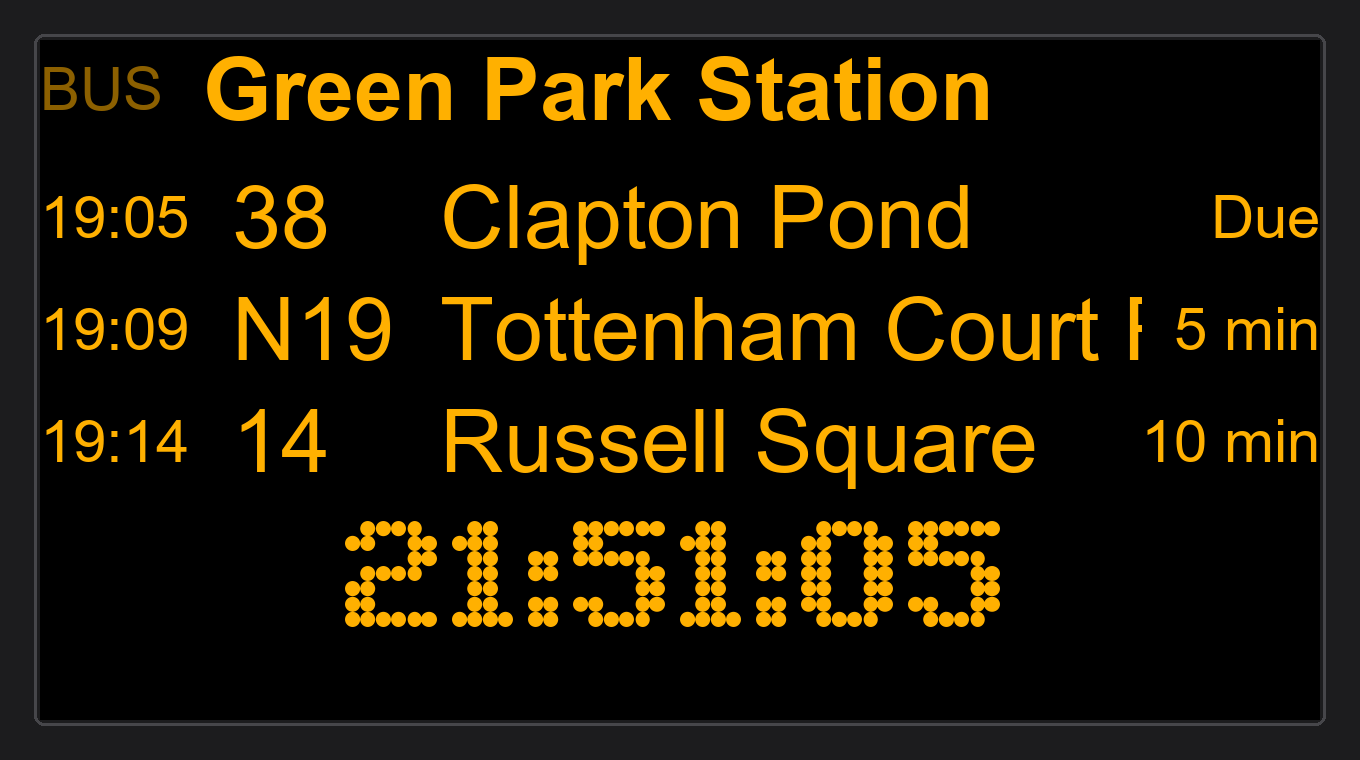
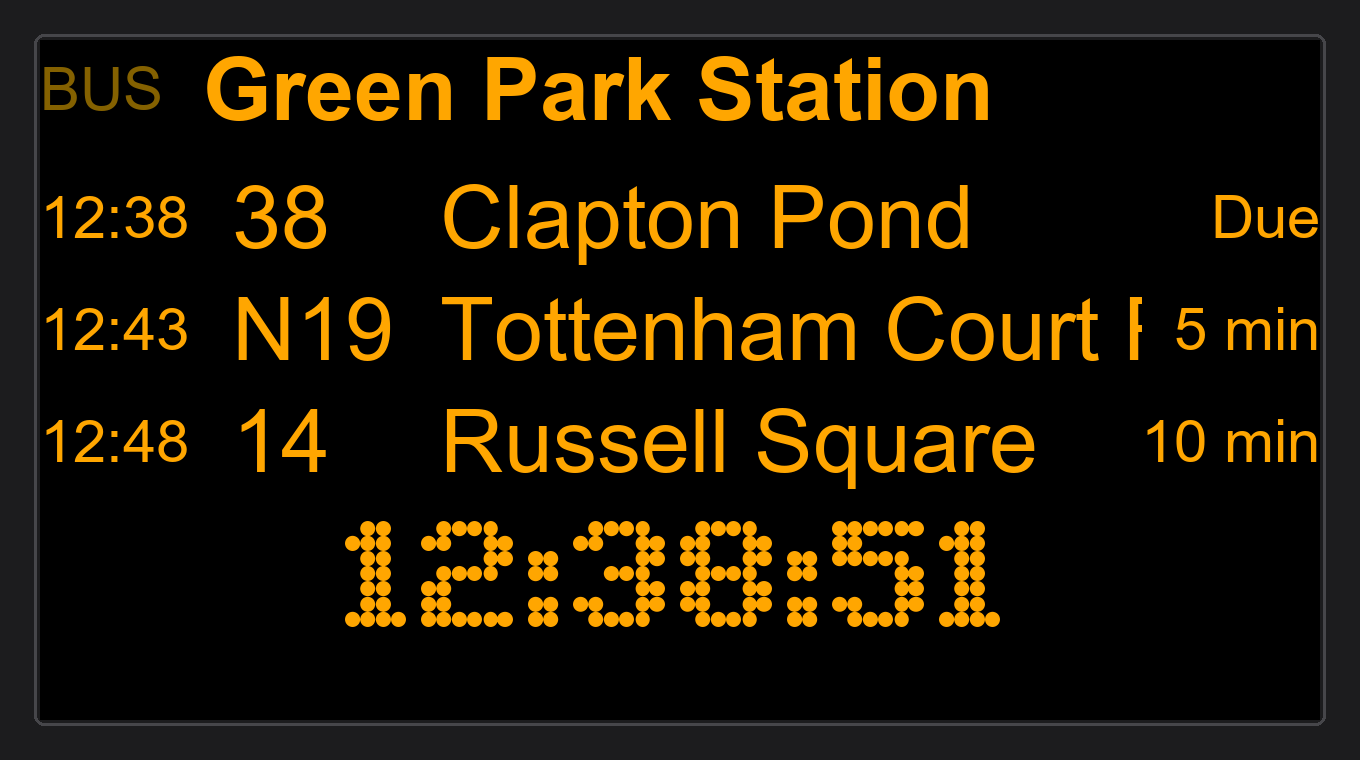
docs: mockups for all three screens
The renderer predated the river screen, so there was no boat mockup and the
train/bus pair were named inconsistently. There is now a matching trio --
mockup-train, mockup-bus, mockup-river -- alongside the two edge cases worth
eyeballing after a layout change.

Bus and river now share one function here because they share one on the
device: drawArrivalsBoard() draws both, differing only in tag and empty-state
text. The mockup mirroring that keeps it honest.

Two accuracy fixes for a tool whose whole purpose is being pixel-accurate:

Colours were eyeballed approximations -- AMBER as (255,176,0) against the
panel's real (255,166,0), and RED as (255,40,40) against a pure (255,0,0).
They are now derived from display.cpp's RGB565 constants, so the mockups
show what the screen actually produces. The palette is a parameter too, so
any of the new themes can be rendered.

Row times were hardcoded while the clock read the real time, so every mockup
showed an impossible board: departures at 19:21 under a clock reading 12:38.
Times are now derived from minutes-from-now, and the countdown wording comes
from the same rule the firmware uses.

Also makes the script runnable from anywhere rather than only from docs/.

diff --git a/docs/render_mockup.py b/docs/render_mockup.py
@@ -1,41 +1,72 @@
-"""Render pixel-accurate mockups of the T-Display-S3 board, trains and buses.
+"""Render pixel-accurate mockups of the board: trains, London buses, river boats.
 
-Mirrors src/display.cpp (320x170 landscape, amber-on-black), including its shared
-layout: FreeSans (approximated by Arial) for the header and rows, dot-matrix for
-the clock, and the same row geometry constants. Documentation aid only, so layout
+Mirrors src/display.cpp (320x170 landscape) including its shared layout:
+FreeSans (approximated by Arial) for the header and rows, dot-matrix for the
+clock, and the same geometry constants. Documentation aid only, so layout
 changes can be checked without flashing a board. Scaled 4x for legibility.
 
-Run it with no arguments to regenerate all four:
+Colours are derived from the firmware's own RGB565 constants rather than
+eyeballed, and any theme can be rendered by passing a different palette — the
+board's colours are runtime settings now, so the mockups can show them.
 
-  mockup-mot.png          train board, live Motspur Park data
-  mockup-scroll-demo.png  train board, delayed + cancelled, long name clipped
-  mockup-bus.png          London bus arrivals screen
-  mockup-bus-busy.png     bus screen with a destination too long for its column
+Bus and river share one renderer here because they share one on the device:
+drawArrivalsBoard() draws both, differing only in tag and empty-state text.
+
+Run with no arguments to regenerate everything:
+
+  mockup-train.png        train board
+  mockup-bus.png          London bus arrivals
+  mockup-river.png        river boat sailings
+  mockup-scroll-demo.png  train board, delayed + cancelled
+  mockup-bus-busy.png     bus screen, destination too long for its column
 """
 
-from datetime import datetime
+import os
+from datetime import datetime, timedelta
 from PIL import Image, ImageFont, ImageDraw
+
+HERE = os.path.dirname(os.path.abspath(__file__))
+FONT_DIR = os.path.join(HERE, "..", "fonts")
+WIN = "C:/Windows/Fonts"
 
 W, H = 320, 170
 SCALE = 4
-DM_DIR = "../fonts"
-WIN = "C:/Windows/Fonts"
-
-AMBER = (255, 176, 0)
-RED = (255, 40, 40)
-BLACK = (0, 0, 0)
 
 HIDE_ONTIME = False  # matches HIDE_ONTIME_STATUS in app_config.h
 
-# Train rows: FreeSans-like (Arial). Clock: dot-matrix. Sizes match display.cpp.
+# Geometry, straight from display.cpp.
+ROW_Y0, ROW_STEP, CLOCK_Y = 32, 28, 120
+TRAIN_DEST_X, BUS_ROUTE_X, BUS_DEST_X = 48, 48, 100
+
+
+def rgb565(v):
+    """The exact colour the 16-bit panel produces for an RGB565 value."""
+    r5, g6, b5 = (v >> 11) & 0x1F, (v >> 5) & 0x3F, v & 0x1F
+    return ((r5 << 3) | (r5 >> 2), (g6 << 2) | (g6 >> 4), (b5 << 3) | (b5 >> 2))
+
+
+# display.cpp's defaults: AMBER, DIM, RED, BLACK.
+CLASSIC = {"fg": rgb565(0xFD20), "dim": rgb565(0x8300),
+           "warn": rgb565(0xF800), "bg": rgb565(0x0000)}
+
 f_row_bold = ImageFont.truetype(f"{WIN}/arialbd.ttf", 22 * SCALE)   # FreeSansBold12pt7b
 f_row = ImageFont.truetype(f"{WIN}/arial.ttf", 22 * SCALE)          # FreeSans12pt7b
 f_status = ImageFont.truetype(f"{WIN}/arial.ttf", 15 * SCALE)       # FreeSans9pt7b
-f_clock = ImageFont.truetype(f"{DM_DIR}/Dot Matrix Bold.ttf", 38 * SCALE)  # DotMatrix_Bold_38
+f_clock = ImageFont.truetype(os.path.join(FONT_DIR, "Dot Matrix Bold.ttf"), 38 * SCALE)
 
 
 def sx(v):
     return int(v * SCALE)
+
+
+def at(mins):
+    """Clock time `mins` from now, so the rows agree with the clock below them."""
+    return (datetime.now() + timedelta(minutes=mins)).strftime("%H:%M")
+
+
+def eta(mins):
+    """The countdown wording the board uses: "Due" under a minute."""
+    return "Due" if mins < 1 else f"{mins} min"
 
 
 def font_h(fnt):
@@ -43,134 +74,146 @@ def font_h(fnt):
     return a + d
 
 
-def draw_row(img, draw, y, dep):
-    """Mirrors drawRow(): small time, destination, small status right-aligned."""
-    colour = RED if dep.get("cancelled") else AMBER
-    right = dep["status"] + (f"  P{dep['plat']}" if dep["plat"] else "")
-    on_time = (dep["status"] == "On time") and not dep.get("cancelled")
-    show_status = not (HIDE_ONTIME and on_time and not dep["plat"])
-
-    row_h = font_h(f_row)
-    small_h = font_h(f_status)
-    dy = (row_h - small_h) / 2
-    rw = int(draw.textlength(right, font=f_status)) if show_status else 0
-
-    draw.text((sx(0), sx(y) + dy), dep["aimed"], font=f_status, fill=AMBER)
-    if show_status:
-        draw.text((sx(W) - rw, sx(y) + dy), right, font=f_status, fill=colour)
-
-    dest_max = W - TRAIN_DEST_X - (rw / SCALE + 8 if show_status else 4)
-    clip(img, draw, dep["dest"], f_row, TRAIN_DEST_X, y, dest_max, colour)
-
-
-ROW_Y0, ROW_STEP, CLOCK_Y = 32, 28, 120
-TRAIN_DEST_X, BUS_ROUTE_X, BUS_DEST_X = 48, 48, 100
-DIM = (140, 96, 0)
-
-
-def draw_header(img, draw, tag, name):
-    """Mirrors drawHeader(): small dim mode tag, then the name in the head font."""
-    tag_h = font_h(f_status)
-    tag_w = draw.textlength(tag, font=f_status) / SCALE + 10
-    head_h = font_h(f_row_bold)
-    draw.text((sx(0), (head_h - tag_h) / 2), tag, font=f_status, fill=DIM)
-    clip(img, draw, name, f_row_bold, tag_w, 0, W - tag_w, AMBER)
-
-
-def clip(img, draw, text, fnt, x, y, maxw, fill):
+def clip(img, draw, text, fnt, x, y, maxw, fill, bg):
     """Draw text, cropping to `maxw` the way the on-device marquee clips it."""
     w = draw.textlength(text, font=fnt) / SCALE
     if w <= maxw:
         draw.text((sx(x), sx(y)), text, font=fnt, fill=fill)
         return
-    band = Image.new("RGB", (sx(maxw), font_h(fnt) + sx(4)), BLACK)
+    band = Image.new("RGB", (sx(maxw), font_h(fnt) + sx(4)), bg)
     ImageDraw.Draw(band).text((0, 0), text, font=fnt, fill=fill)
     img.paste(band, (sx(x), sx(y)))
 
 
-def draw_bus_row(img, draw, y, ar):
-    """Mirrors drawBusRow(): small time, route, destination, small ETA right."""
-    row_h = font_h(f_row)
-    small_h = font_h(f_status)
-    dy = (row_h - small_h) / 2
+def draw_header(img, draw, tag, name, pal):
+    """Mirrors drawHeader(): small dim mode tag, then the name in the head font."""
+    tag_h = font_h(f_status)
+    tag_w = draw.textlength(tag, font=f_status) / SCALE + 10
+    head_h = font_h(f_row_bold)
+    draw.text((sx(0), (head_h - tag_h) / 2), tag, font=f_status, fill=pal["dim"])
+    clip(img, draw, name, f_row_bold, tag_w, 0, W - tag_w, pal["fg"], pal["bg"])
+
+
+def draw_row(img, draw, y, dep, pal):
+    """Mirrors drawRow(): small time, destination, small status right-aligned."""
+    colour = pal["warn"] if dep.get("cancelled") else pal["fg"]
+    right = dep["status"] + (f"  P{dep['plat']}" if dep["plat"] else "")
+    on_time = (dep["status"] == "On time") and not dep.get("cancelled")
+    show_status = not (HIDE_ONTIME and on_time and not dep["plat"])
+
+    dy = (font_h(f_row) - font_h(f_status)) / 2
+    rw = int(draw.textlength(right, font=f_status)) if show_status else 0
+
+    draw.text((sx(0), sx(y) + dy), dep["aimed"], font=f_status, fill=pal["fg"])
+    if show_status:
+        draw.text((sx(W) - rw, sx(y) + dy), right, font=f_status, fill=colour)
+
+    dest_max = W - TRAIN_DEST_X - (rw / SCALE + 8 if show_status else 4)
+    clip(img, draw, dep["dest"], f_row, TRAIN_DEST_X, y, dest_max, colour, pal["bg"])
+
+
+def draw_arrival_row(img, draw, y, ar, pal):
+    """Mirrors drawArrivalRow(): time, route, destination, countdown right."""
+    dy = (font_h(f_row) - font_h(f_status)) / 2
     ew = int(draw.textlength(ar["eta"], font=f_status))
 
-    draw.text((sx(0), sx(y) + dy), ar["when"], font=f_status, fill=AMBER)
-    draw.text((sx(W) - ew, sx(y) + dy), ar["eta"], font=f_status, fill=AMBER)
-    draw.text((sx(BUS_ROUTE_X), sx(y)), ar["line"], font=f_row, fill=AMBER)
-    clip(img, draw, ar["dest"], f_row, BUS_DEST_X, y, W - BUS_DEST_X - ew / SCALE - 8, AMBER)
+    draw.text((sx(0), sx(y) + dy), ar["when"], font=f_status, fill=pal["fg"])
+    draw.text((sx(W) - ew, sx(y) + dy), ar["eta"], font=f_status, fill=pal["fg"])
+    draw.text((sx(BUS_ROUTE_X), sx(y)), ar["line"], font=f_row, fill=pal["fg"])
+    clip(img, draw, ar["dest"], f_row, BUS_DEST_X, y,
+         W - BUS_DEST_X - ew / SCALE - 8, pal["fg"], pal["bg"])
 
 
-def render_bus(stop_name, line_filter, arrivals, out_name):
-    """Mirrors renderBusBoard()."""
-    img = Image.new("RGB", (sx(W), sx(H)), BLACK)
-    draw = ImageDraw.Draw(img)
-    draw_header(img, draw, f"BUS {line_filter}" if line_filter else "BUS", stop_name)
-
-    if not arrivals:
-        msg = "No buses due"
-        draw.text(((sx(W) - draw.textlength(msg, font=f_row_bold)) / 2, sx(52)),
-                  msg, font=f_row_bold, fill=DIM)
-    else:
-        for i, ar in enumerate(arrivals[:3]):
-            draw_bus_row(img, draw, ROW_Y0 + i * ROW_STEP, ar)
-
-    finish(img, draw, out_name)
-
-
-def finish(img, draw, out_name):
+def finish(img, draw, out_name, pal):
     clock = datetime.now().strftime("%H:%M:%S")
     cw = draw.textlength(clock, font=f_clock)
-    draw.text(((sx(W) - cw) / 2, sx(CLOCK_Y)), clock, font=f_clock, fill=AMBER)
+    draw.text(((sx(W) - cw) / 2, sx(CLOCK_Y)), clock, font=f_clock, fill=pal["fg"])
+
     bez = 40
     canvas = Image.new("RGB", (sx(W) + bez * 2, sx(H) + bez * 2), (28, 28, 30))
     ImageDraw.Draw(canvas).rounded_rectangle(
         [bez - 6, bez - 6, bez + sx(W) + 5, bez + sx(H) + 5],
         radius=10, outline=(70, 70, 74), width=3)
     canvas.paste(img, (bez, bez))
-    canvas.save(out_name)
-    print(f"wrote {out_name}")
+    out = os.path.join(HERE, out_name)
+    canvas.save(out)
+    print(f"  wrote {out_name}")
 
 
-def render(departures, out_name, station="Motspur Park", scroll_offsets=None):
+def render_train(departures, out_name, station="Motspur Park", pal=CLASSIC):
     """Mirrors renderBoard()."""
-    img = Image.new("RGB", (sx(W), sx(H)), BLACK)
+    img = Image.new("RGB", (sx(W), sx(H)), pal["bg"])
     draw = ImageDraw.Draw(img)
-    draw_header(img, draw, "TRAIN", station)
+    draw_header(img, draw, "TRAIN", station, pal)
 
     if not departures:
         msg = "No departures"
         draw.text(((sx(W) - draw.textlength(msg, font=f_row_bold)) / 2, sx(52)),
-                  msg, font=f_row_bold, fill=DIM)
+                  msg, font=f_row_bold, fill=pal["dim"])
     else:
         for i, dep in enumerate(departures[:3]):
-            draw_row(img, draw, ROW_Y0 + i * ROW_STEP, dep)
+            draw_row(img, draw, ROW_Y0 + i * ROW_STEP, dep, pal)
 
-    finish(img, draw, out_name)
+    finish(img, draw, out_name, pal)
+
+
+def render_arrivals(tag, name, arrivals, empty_msg, out_name, pal=CLASSIC):
+    """Mirrors drawArrivalsBoard(), which draws both the bus and river screens."""
+    img = Image.new("RGB", (sx(W), sx(H)), pal["bg"])
+    draw = ImageDraw.Draw(img)
+    draw_header(img, draw, tag, name, pal)
+
+    if not arrivals:
+        draw.text(((sx(W) - draw.textlength(empty_msg, font=f_row_bold)) / 2, sx(52)),
+                  empty_msg, font=f_row_bold, fill=pal["dim"])
+    else:
+        for i, ar in enumerate(arrivals[:3]):
+            draw_arrival_row(img, draw, ROW_Y0 + i * ROW_STEP, ar, pal)
+
+    finish(img, draw, out_name, pal)
+
+
+def render_bus(stop, line_filter, arrivals, out_name, pal=CLASSIC):
+    render_arrivals(f"BUS {line_filter}" if line_filter else "BUS",
+                    stop, arrivals, "No buses due", out_name, pal)
+
+
+def render_river(pier, line_filter, sailings, out_name, pal=CLASSIC):
+    render_arrivals(f"RIVER {line_filter}" if line_filter else "RIVER",
+                    pier, sailings, "No boats due", out_name, pal)
 
 
 if __name__ == "__main__":
-    render([
-        {"aimed": "17:10", "dest": "Chessington South", "status": "On time", "plat": ""},
-        {"aimed": "17:15", "dest": "London Waterloo",   "status": "On time", "plat": ""},
-        {"aimed": "17:16", "dest": "Guildford",         "status": "On time", "plat": ""},
-    ], "mockup-mot.png")
+    print("Rendering board mockups...")
 
-    render([
-        {"aimed": "17:10", "dest": "Chessington South", "status": "Exp 17:22", "plat": ""},
-        {"aimed": "17:15", "dest": "London Waterloo",   "status": "On time",   "plat": ""},
-        {"aimed": "17:16", "dest": "Guildford",         "status": "Cancelled", "plat": "",
+    render_train([
+        {"aimed": at(4),  "dest": "Chessington South", "status": "On time", "plat": "2"},
+        {"aimed": at(9),  "dest": "London Waterloo",   "status": "On time", "plat": "1"},
+        {"aimed": at(19), "dest": "Guildford",         "status": "On time", "plat": "2"},
+    ], "mockup-train.png")
+
+    render_bus("Wimbledon Station", "", [
+        {"when": at(3),  "line": "93",  "dest": "Putney Bridge", "eta": eta(3)},
+        {"when": at(11), "line": "200", "dest": "Raynes Park",   "eta": eta(11)},
+        {"when": at(24), "line": "163", "dest": "Morden",        "eta": eta(24)},
+    ], "mockup-bus.png")
+
+    render_river("Vauxhall St George Wharf Pier", "", [
+        {"when": at(17), "line": "RB6", "dest": "Blackfriars",       "eta": eta(17)},
+        {"when": at(23), "line": "RB6", "dest": "Putney Pier",       "eta": eta(23)},
+        {"when": at(41), "line": "RB1", "dest": "Barking Riverside", "eta": eta(41)},
+    ], "mockup-river.png")
+
+    # Edge cases worth being able to eyeball after a layout change.
+    render_train([
+        {"aimed": at(4),  "dest": "Chessington South", "status": f"Exp {at(16)}", "plat": ""},
+        {"aimed": at(9),  "dest": "London Waterloo",   "status": "On time",       "plat": ""},
+        {"aimed": at(19), "dest": "Guildford",         "status": "Cancelled",     "plat": "",
          "cancelled": True},
     ], "mockup-scroll-demo.png")
 
-    render_bus("Motspur Park Station", "", [
-        {"when": "19:07", "line": "K5",  "dest": "Ham",      "eta": "3 min"},
-        {"when": "19:15", "line": "131", "dest": "Kingston", "eta": "11 min"},
-        {"when": "19:28", "line": "K5",  "dest": "Morden",   "eta": "24 min"},
-    ], "mockup-bus.png")
-
     render_bus("Green Park Station", "", [
-        {"when": "19:05", "line": "38",  "dest": "Clapton Pond",         "eta": "Due"},
-        {"when": "19:09", "line": "N19", "dest": "Tottenham Court Road", "eta": "5 min"},
-        {"when": "19:14", "line": "14",  "dest": "Russell Square",       "eta": "10 min"},
+        {"when": at(0),  "line": "38",  "dest": "Clapton Pond",         "eta": eta(0)},
+        {"when": at(5),  "line": "N19", "dest": "Tottenham Court Road", "eta": eta(5)},
+        {"when": at(10), "line": "14",  "dest": "Russell Square",       "eta": eta(10)},
     ], "mockup-bus-busy.png")

diff --git a/DETAILS.md b/DETAILS.md
@@ -94,7 +94,7 @@ ESP32Departures/
 │   ├── bus_api.cpp           TfL live bus arrivals (Countdown/URA) client
 │   ├── river_api.cpp         TfL live river sailings (Unified API) client
 │   └── display.cpp           LovyanGFX panel config + rendering
-├── docs/                     mockup renderer + font-conversion script
+├── docs/                     board mockups, API-key guide, font-conversion script
 ├── web/                      the web configurator (static, hosted on Azure)
 │   ├── index.html            the form, preview and installer UI
 │   ├── js/config.js          config model, mode set, RGB565 colour maths

diff --git a/REQUIREMENTS.md b/REQUIREMENTS.md
@@ -98,7 +98,7 @@ and the LDBWS endpoint (verifying the station and API key).
 
 | Component | Purpose |
 |---|---|
-| `render_mockup.py` (Pillow) | Pixel-accurate renders of the train and bus boards, mirroring `display.cpp` |
+| `render_mockup.py` (Pillow) | Pixel-accurate renders of all three boards, mirroring `display.cpp` — colours derived from its RGB565 constants, and any theme renderable by passing a palette |
 | `ttf_to_lgfx.py` | Converts the dot-matrix TTFs to an `lgfx::GFXfont` header |
 
 ---
